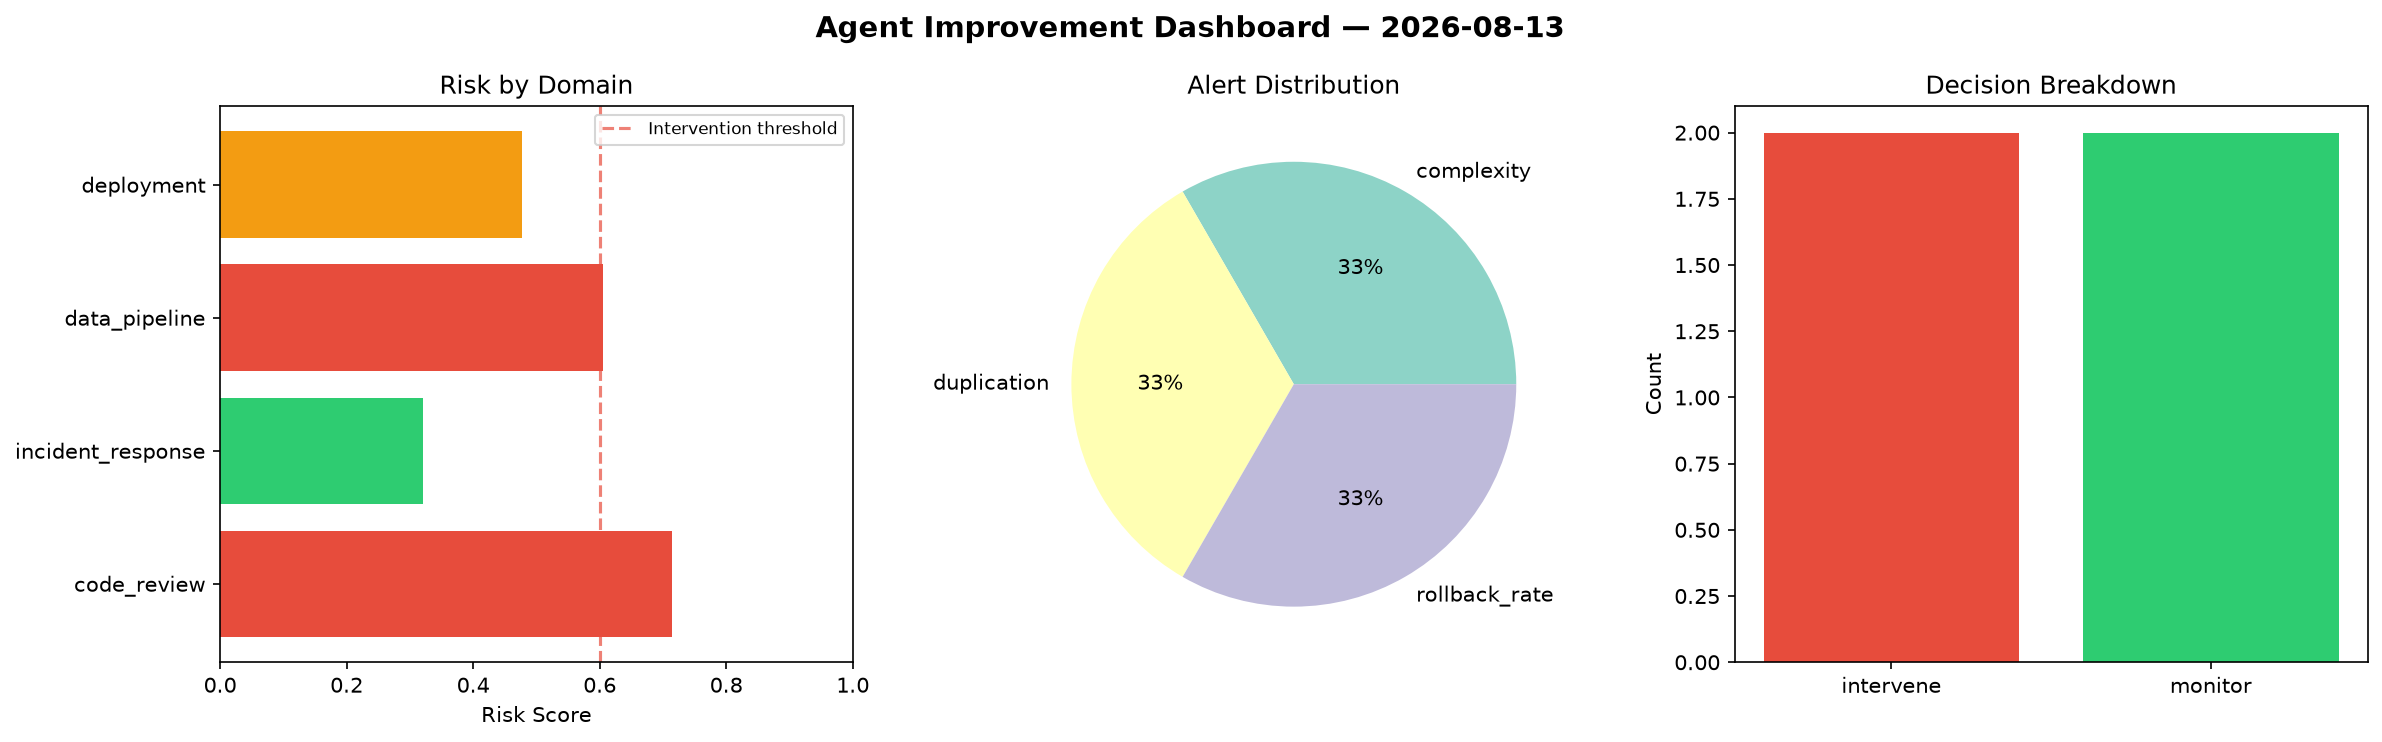
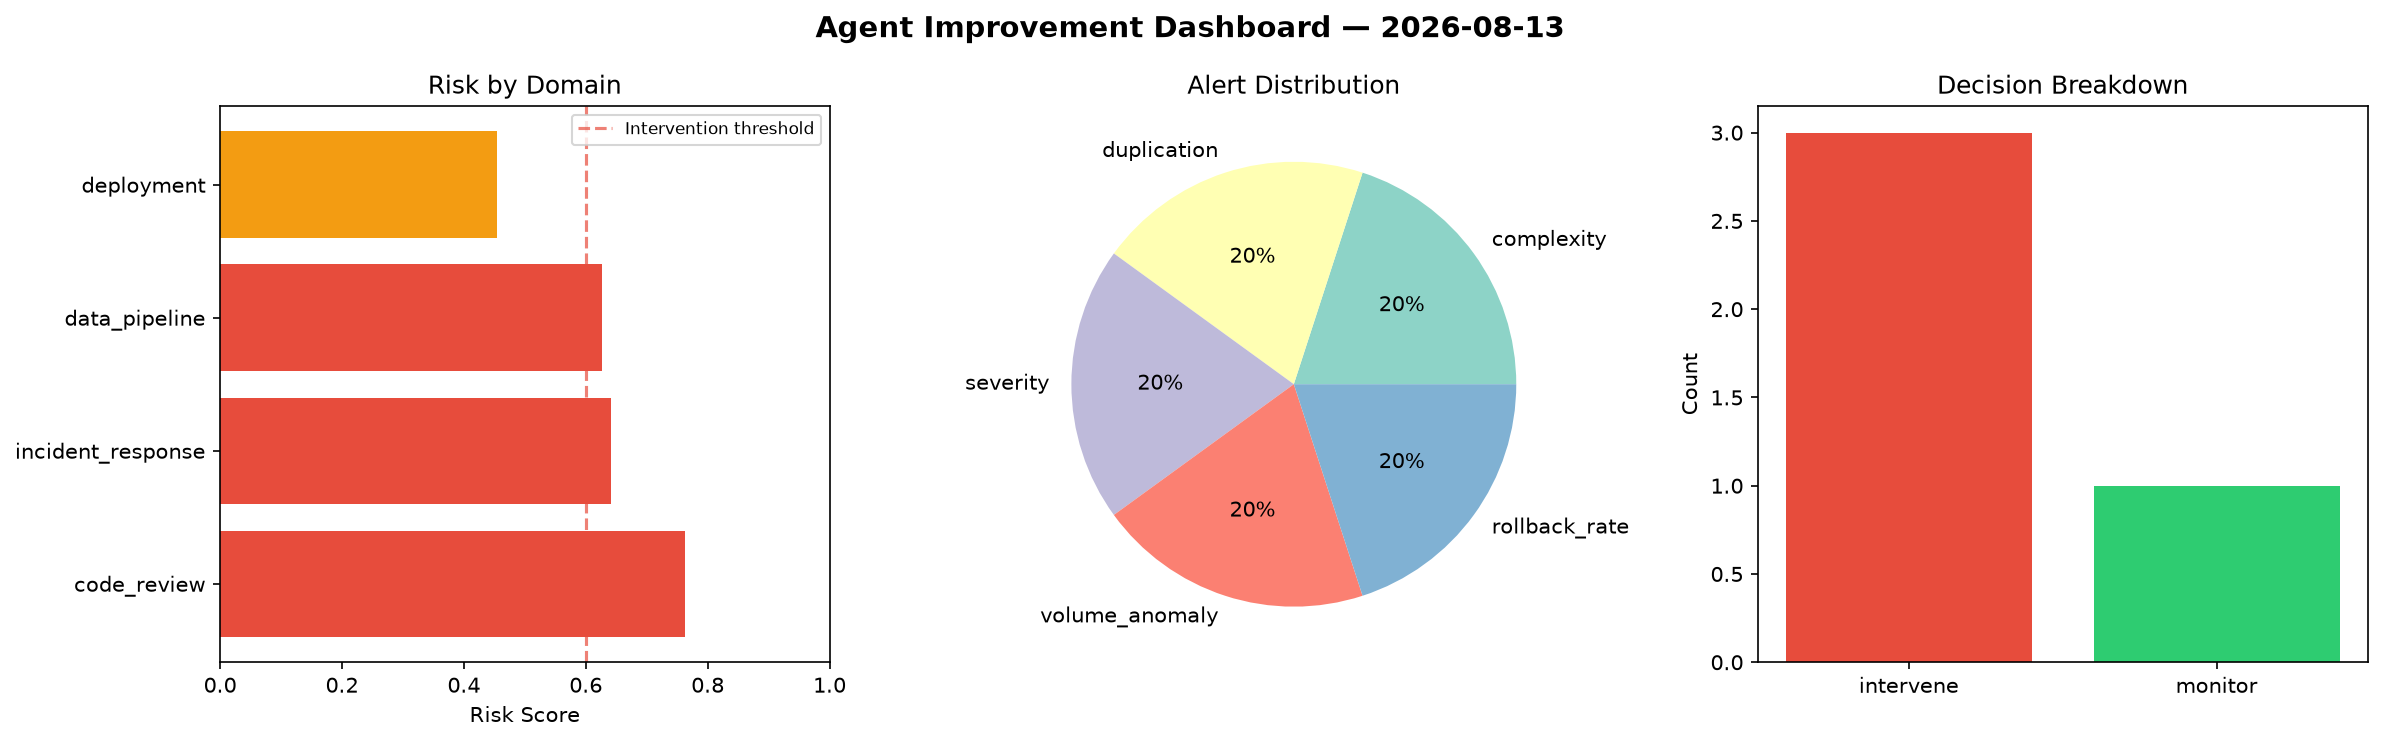
agent-improvement: daily cycle 2026-08-13T15:15

diff --git a/logs/2026-08-13.md b/logs/2026-08-13.md
@@ -1,6 +1,6 @@
 # Agent Improvement Report — 2026-08-13
 
-**Cycle ID:** `e45e4520` | **Avg Risk:** 0.5295 | **Interventions:** 2/4
+**Cycle ID:** `df0c3559` | **Avg Risk:** 0.6212 | **Interventions:** 3/4
 
 ![Dashboard](2026-08-13_dashboard.png)
 
@@ -10,18 +10,18 @@
 
 | Domain | Risk Score | Decision | Alerts |
 |--------|-----------|----------|--------|
-| code_review | 0.7147 | intervene | complexity, duplication |
-| incident_response | 0.3206 | monitor | none |
-| data_pipeline | 0.6059 | intervene | none |
-| deployment | 0.4768 | monitor | rollback_rate |
+| code_review | 0.7626 | intervene | complexity, duplication |
+| incident_response | 0.6412 | intervene | severity |
+| data_pipeline | 0.6265 | intervene | volume_anomaly |
+| deployment | 0.4546 | monitor | rollback_rate |
 
 ## Delta vs Yesterday
 
 | Domain | Today | Yesterday | Change |
 |--------|-------|-----------|--------|
-| code_review | 0.7147 | 0.3997 | 📈 78.8% |
-| incident_response | 0.3206 | 0.497 | 📉 -35.5% |
-| data_pipeline | 0.6059 | 0.4876 | 📈 24.3% |
-| deployment | 0.4768 | 0.6432 | 📉 -25.9% |
+| code_review | 0.7626 | 0.3997 | 📈 90.8% |
+| incident_response | 0.6412 | 0.497 | 📈 29.0% |
+| data_pipeline | 0.6265 | 0.4876 | 📈 28.5% |
+| deployment | 0.4546 | 0.6432 | 📉 -29.3% |
 
 **Refinement:** `{'adjustment': 'maintain', 'trend': 'improving', 'window': 4}`
